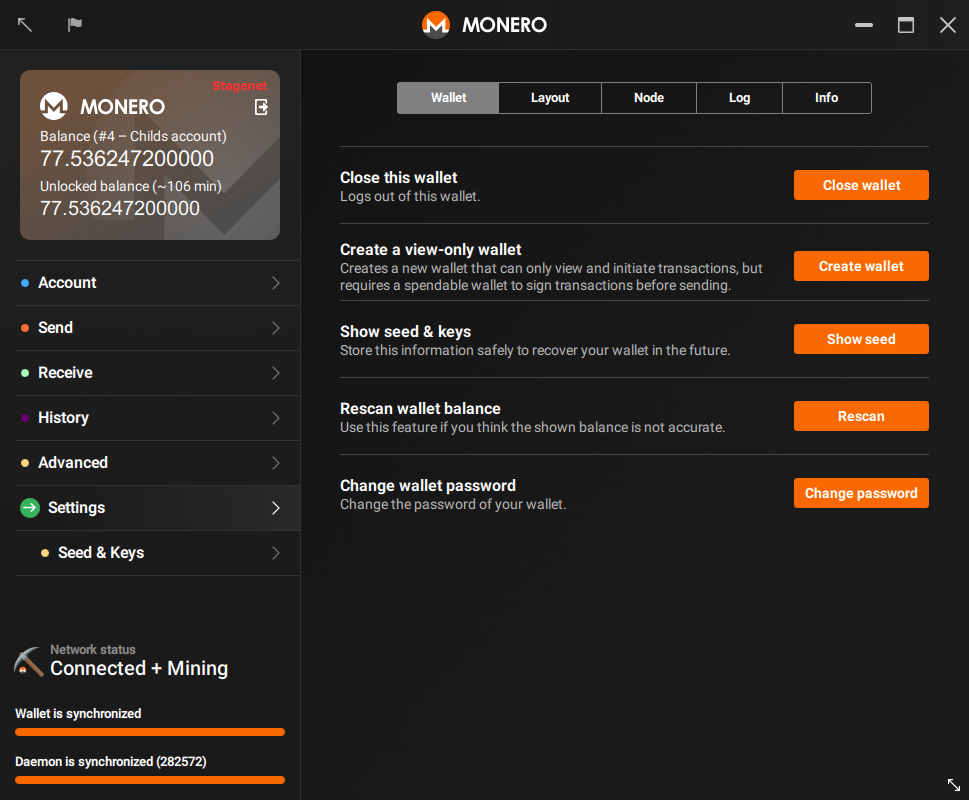
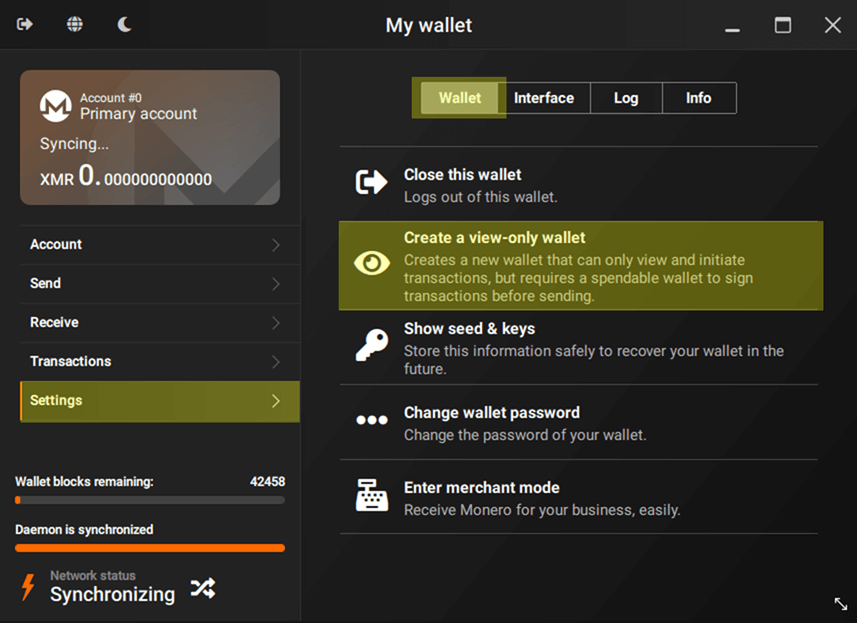
view-only wallet guide: update text + settings page screenshot

diff --git a/_i18n/de/resources/user-guides/view_only.md b/_i18n/de/resources/user-guides/view_only.md
@@ -21,13 +21,13 @@ Open an existing wallet and type `address` and `viewkey` commands to display the
 Next, create your view-only wallet by typing `monero-wallet-cli --generate-from-view-key wallet-name`. The last argument will be your new wallet's file name. You will be prompted for `Standard address` and `View key` by the wallet. Paste in your original wallet's address and private (secret) view key. Next, enter and confirm a password for your new wallet.
 
 ### GUI: Creating a View-Only Wallet from an Existing Wallet File
-If you have access to the existing wallet, open your wallet and go to the `Settings` > `Wallet` page:
+If you have access to the existing wallet, open your wallet and go to `Settings` > `Wallet` > `Create a view-only wallet`:
 
 ![settings](png/view-only/settings.png)
 
-Click on `Create a view only wallet` > `Create wallet`. The view-only wallet file will be created within the same directory and using your current password.
+The view-only wallet file will be created within the same directory and using your current password.
 
-Optionally, double-click the `Success` windows to copy the message, then click `OK` to close it:
+Optionally, double-click the `Success` window to copy the message, then click `OK` to close it:
 
 ![Success](png/view-only/Success.png)
 
@@ -47,5 +47,7 @@ In `Account address (public)` field, enter your wallet's main address, which sta
 In `View key (private)` field, enter the private view key of your wallet.
 
 Leave the `Spend key (private)` field blank.
+
+Enter a `Wallet creation date` or a `Restore height` if you have one (optional).
 
 Click on `Next` to create your view-only wallet file.

diff --git a/_i18n/en/resources/user-guides/view_only.md b/_i18n/en/resources/user-guides/view_only.md
@@ -21,13 +21,13 @@ Open an existing wallet and type `address` and `viewkey` commands to display the
 Next, create your view-only wallet by typing `monero-wallet-cli --generate-from-view-key wallet-name`. The last argument will be your new wallet's file name. You will be prompted for `Standard address` and `View key` by the wallet. Paste in your original wallet's address and private (secret) view key. Next, enter and confirm a password for your new wallet.
 
 ### GUI: Creating a View-Only Wallet from an Existing Wallet File
-If you have access to the existing wallet, open your wallet and go to the `Settings` > `Wallet` page:
+If you have access to the existing wallet, open your wallet and go to `Settings` > `Wallet` > `Create a view-only wallet`:
 
 ![settings](png/view-only/settings.png)
 
-Click on `Create a view only wallet` > `Create wallet`. The view-only wallet file will be created within the same directory and using your current password.
+The view-only wallet file will be created within the same directory and using your current password.
 
-Optionally, double-click the `Success` windows to copy the message, then click `OK` to close it:
+Optionally, double-click the `Success` window to copy the message, then click `OK` to close it:
 
 ![Success](png/view-only/Success.png)
 
@@ -47,5 +47,7 @@ In `Account address (public)` field, enter your wallet's main address, which sta
 In `View key (private)` field, enter the private view key of your wallet.
 
 Leave the `Spend key (private)` field blank.
+
+Enter a `Wallet creation date` or a `Restore height` if you have one (optional).
 
 Click on `Next` to create your view-only wallet file.

diff --git a/_i18n/it/resources/user-guides/view_only.md b/_i18n/it/resources/user-guides/view_only.md
@@ -21,13 +21,13 @@ Open an existing wallet and type `address` and `viewkey` commands to display the
 Next, create your view-only wallet by typing `monero-wallet-cli --generate-from-view-key wallet-name`. The last argument will be your new wallet's file name. You will be prompted for `Standard address` and `View key` by the wallet. Paste in your original wallet's address and private (secret) view key. Next, enter and confirm a password for your new wallet.
 
 ### GUI: Creating a View-Only Wallet from an Existing Wallet File
-If you have access to the existing wallet, open your wallet and go to the `Settings` > `Wallet` page:
+If you have access to the existing wallet, open your wallet and go to `Settings` > `Wallet` > `Create a view-only wallet`:
 
 ![settings](png/view-only/settings.png)
 
-Click on `Create a view only wallet` > `Create wallet`. The view-only wallet file will be created within the same directory and using your current password.
+The view-only wallet file will be created within the same directory and using your current password.
 
-Optionally, double-click the `Success` windows to copy the message, then click `OK` to close it:
+Optionally, double-click the `Success` window to copy the message, then click `OK` to close it:
 
 ![Success](png/view-only/Success.png)
 
@@ -47,5 +47,7 @@ In `Account address (public)` field, enter your wallet's main address, which sta
 In `View key (private)` field, enter the private view key of your wallet.
 
 Leave the `Spend key (private)` field blank.
+
+Enter a `Wallet creation date` or a `Restore height` if you have one (optional).
 
 Click on `Next` to create your view-only wallet file.

diff --git a/_i18n/pt-br/resources/user-guides/view_only.md b/_i18n/pt-br/resources/user-guides/view_only.md
@@ -21,13 +21,13 @@ Open an existing wallet and type `address` and `viewkey` commands to display the
 Next, create your view-only wallet by typing `monero-wallet-cli --generate-from-view-key wallet-name`. The last argument will be your new wallet's file name. You will be prompted for `Standard address` and `View key` by the wallet. Paste in your original wallet's address and private (secret) view key. Next, enter and confirm a password for your new wallet.
 
 ### GUI: Creating a View-Only Wallet from an Existing Wallet File
-If you have access to the existing wallet, open your wallet and go to the `Settings` > `Wallet` page:
+If you have access to the existing wallet, open your wallet and go to `Settings` > `Wallet` > `Create a view-only wallet`:
 
 ![settings](png/view-only/settings.png)
 
-Click on `Create a view only wallet` > `Create wallet`. The view-only wallet file will be created within the same directory and using your current password.
+The view-only wallet file will be created within the same directory and using your current password.
 
-Optionally, double-click the `Success` windows to copy the message, then click `OK` to close it:
+Optionally, double-click the `Success` window to copy the message, then click `OK` to close it:
 
 ![Success](png/view-only/Success.png)
 
@@ -47,5 +47,7 @@ In `Account address (public)` field, enter your wallet's main address, which sta
 In `View key (private)` field, enter the private view key of your wallet.
 
 Leave the `Spend key (private)` field blank.
+
+Enter a `Wallet creation date` or a `Restore height` if you have one (optional).
 
 Click on `Next` to create your view-only wallet file.

diff --git a/_i18n/tr/resources/user-guides/view_only.md b/_i18n/tr/resources/user-guides/view_only.md
@@ -21,13 +21,13 @@ Open an existing wallet and type `address` and `viewkey` commands to display the
 Next, create your view-only wallet by typing `monero-wallet-cli --generate-from-view-key wallet-name`. The last argument will be your new wallet's file name. You will be prompted for `Standard address` and `View key` by the wallet. Paste in your original wallet's address and private (secret) view key. Next, enter and confirm a password for your new wallet.
 
 ### GUI: Creating a View-Only Wallet from an Existing Wallet File
-If you have access to the existing wallet, open your wallet and go to the `Settings` > `Wallet` page:
+If you have access to the existing wallet, open your wallet and go to `Settings` > `Wallet` > `Create a view-only wallet`:
 
 ![settings](png/view-only/settings.png)
 
-Click on `Create a view only wallet` > `Create wallet`. The view-only wallet file will be created within the same directory and using your current password.
+The view-only wallet file will be created within the same directory and using your current password.
 
-Optionally, double-click the `Success` windows to copy the message, then click `OK` to close it:
+Optionally, double-click the `Success` window to copy the message, then click `OK` to close it:
 
 ![Success](png/view-only/Success.png)
 
@@ -47,5 +47,7 @@ In `Account address (public)` field, enter your wallet's main address, which sta
 In `View key (private)` field, enter the private view key of your wallet.
 
 Leave the `Spend key (private)` field blank.
+
+Enter a `Wallet creation date` or a `Restore height` if you have one (optional).
 
 Click on `Next` to create your view-only wallet file.

diff --git a/_i18n/zh-cn/resources/user-guides/view_only.md b/_i18n/zh-cn/resources/user-guides/view_only.md
@@ -21,13 +21,13 @@ Open an existing wallet and type `address` and `viewkey` commands to display the
 Next, create your view-only wallet by typing `monero-wallet-cli --generate-from-view-key wallet-name`. The last argument will be your new wallet's file name. You will be prompted for `Standard address` and `View key` by the wallet. Paste in your original wallet's address and private (secret) view key. Next, enter and confirm a password for your new wallet.
 
 ### GUI: Creating a View-Only Wallet from an Existing Wallet File
-If you have access to the existing wallet, open your wallet and go to the `Settings` > `Wallet` page:
+If you have access to the existing wallet, open your wallet and go to `Settings` > `Wallet` > `Create a view-only wallet`:
 
 ![settings](png/view-only/settings.png)
 
-Click on `Create a view only wallet` > `Create wallet`. The view-only wallet file will be created within the same directory and using your current password.
+The view-only wallet file will be created within the same directory and using your current password.
 
-Optionally, double-click the `Success` windows to copy the message, then click `OK` to close it:
+Optionally, double-click the `Success` window to copy the message, then click `OK` to close it:
 
 ![Success](png/view-only/Success.png)
 
@@ -47,5 +47,7 @@ In `Account address (public)` field, enter your wallet's main address, which sta
 In `View key (private)` field, enter the private view key of your wallet.
 
 Leave the `Spend key (private)` field blank.
+
+Enter a `Wallet creation date` or a `Restore height` if you have one (optional).
 
 Click on `Next` to create your view-only wallet file.

diff --git a/_i18n/zh-tw/resources/user-guides/view_only.md b/_i18n/zh-tw/resources/user-guides/view_only.md
@@ -21,13 +21,13 @@ Open an existing wallet and type `address` and `viewkey` commands to display the
 Next, create your view-only wallet by typing `monero-wallet-cli --generate-from-view-key wallet-name`. The last argument will be your new wallet's file name. You will be prompted for `Standard address` and `View key` by the wallet. Paste in your original wallet's address and private (secret) view key. Next, enter and confirm a password for your new wallet.
 
 ### GUI: Creating a View-Only Wallet from an Existing Wallet File
-If you have access to the existing wallet, open your wallet and go to the `Settings` > `Wallet` page:
+If you have access to the existing wallet, open your wallet and go to `Settings` > `Wallet` > `Create a view-only wallet`:
 
 ![settings](png/view-only/settings.png)
 
-Click on `Create a view only wallet` > `Create wallet`. The view-only wallet file will be created within the same directory and using your current password.
+The view-only wallet file will be created within the same directory and using your current password.
 
-Optionally, double-click the `Success` windows to copy the message, then click `OK` to close it:
+Optionally, double-click the `Success` window to copy the message, then click `OK` to close it:
 
 ![Success](png/view-only/Success.png)
 
@@ -47,5 +47,7 @@ In `Account address (public)` field, enter your wallet's main address, which sta
 In `View key (private)` field, enter the private view key of your wallet.
 
 Leave the `Spend key (private)` field blank.
+
+Enter a `Wallet creation date` or a `Restore height` if you have one (optional).
 
 Click on `Next` to create your view-only wallet file.
